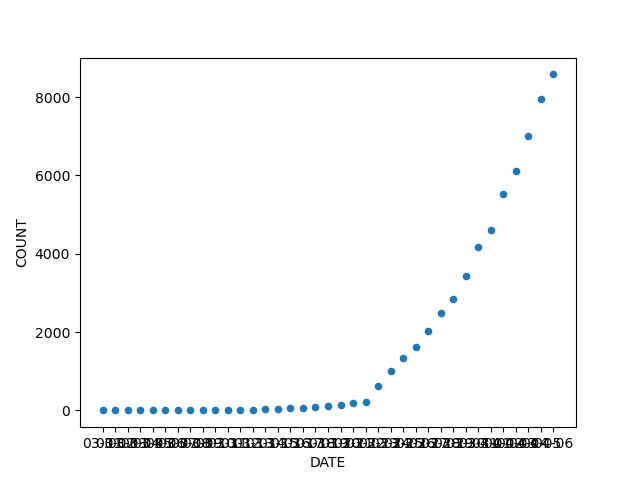
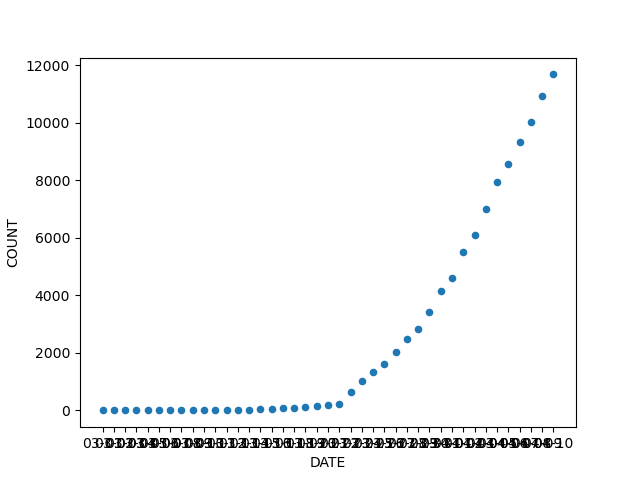
04/10

diff --git a/covid-19/getcount.py b/covid-19/getcount.py
@@ -30,12 +30,6 @@ segment = segment[index:]
 death_str = segment[:30]
 death_str = ''.join(x for x in death_str if x.isdigit())
 
-# get recovered 
-index = segment.find("personnes décédées")
-segment = segment[index:]
-recovered_str = segment[:30]
-recovered_str = ''.join(x for x in recovered_str if x.isdigit())
-
 # get Montreal
 index = segment.find("06 - Montréal")
 segment = segment[index+30:]
@@ -70,7 +64,6 @@ def append(filename, record) :
 # append new record to each file
 appended = append('covid-19.csv',num_str)
 appended = append('death.csv',death_str) or appended
-appended = append('recovered.csv',recovered_str) or appended
 appended = append('montreal.csv',mtl_str) or appended
 
 def graph() :
@@ -78,16 +71,8 @@ def graph() :
     import pandas as pd
     import matplotlib.pyplot as plt
     df = pd.read_csv("covid-19.csv", names=["DATE","COUNT"])
-    death = pd.read_csv("death.csv", names=["DATE","COUNT"])
-    recovered = pd.read_csv("recovered.csv", names=["DATE","COUNT"])
     df.plot.scatter(x='DATE',y='COUNT')
     plt.savefig('covid-19.png')
-    # make graph of active cases (in progress)
-    for x in range(len(death.index)) :
-        df.at[x+19,'COUNT'] -= death.at[x,'COUNT']
-        df.at[x+19,'COUNT'] -= recovered.at[x,'COUNT']
-    df.plot.scatter(x='DATE',y='COUNT')
-    plt.savefig('covid-19-active.png')
     mtl = pd.read_csv("montreal.csv", names=["DATE","COUNT"])
     mtl.plot.scatter(x='DATE',y='COUNT')
     plt.savefig('covid-19-montreal.png')
